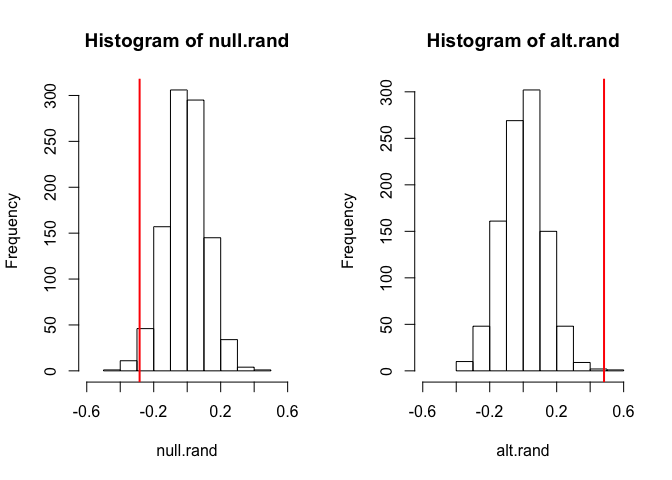
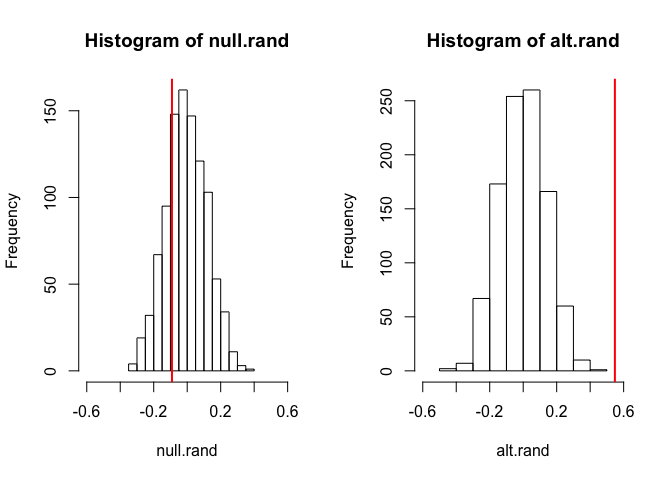
get rid of ~

diff --git a/hypothesis_testing.md b/hypothesis_testing.md
@@ -229,20 +229,20 @@ SIGN.test(x, md = 2) # it use median (md) instead of mean (mu).
     ##  One-sample Sign-Test
     ## 
     ## data:  x
-    ## s = 49, p-value = 0.9204
+    ## s = 53, p-value = 0.6173
     ## alternative hypothesis: true median is not equal to 2
     ## 95 percent confidence interval:
-    ##  1.826532 2.254292
+    ##  1.807113 2.259526
     ## sample estimates:
     ## median of x 
-    ##    1.954697 
+    ##    2.081437 
     ## 
     ## Achieved and Interpolated Confidence Intervals: 
     ## 
     ##                   Conf.Level L.E.pt U.E.pt
-    ## Lower Achieved CI     0.9431 1.8305 2.2503
-    ## Interpolated CI       0.9500 1.8265 2.2543
-    ## Upper Achieved CI     0.9648 1.8181 2.2628
+    ## Lower Achieved CI     0.9431 1.8093 2.2454
+    ## Interpolated CI       0.9500 1.8071 2.2595
+    ## Upper Achieved CI     0.9648 1.8024 2.2900
 
 What about using one-sample t-test on this?
 
@@ -254,13 +254,13 @@ t.test(x,mu=2)
     ##  One Sample t-test
     ## 
     ## data:  x
-    ## t = 0.43267, df = 99, p-value = 0.6662
+    ## t = 1.0453, df = 99, p-value = 0.2984
     ## alternative hypothesis: true mean is not equal to 2
     ## 95 percent confidence interval:
-    ##  1.876915 2.191733
+    ##  1.904462 2.308246
     ## sample estimates:
     ## mean of x 
-    ##  2.034324
+    ##  2.106354
 
 #### Wilconxon Signed-Rank Test
 
@@ -274,7 +274,7 @@ wilcox.test(x, mu = 2) #it use mean (mu) instead of median (md)
     ##  Wilcoxon signed rank test with continuity correction
     ## 
     ## data:  x
-    ## V = 2710, p-value = 0.5258
+    ## V = 2796, p-value = 0.3523
     ## alternative hypothesis: true location is not equal to 2
 
 Now, you try with paired data. First, generate some random data from the normal distribution, calculate the difference and do the appropriate test.
@@ -289,13 +289,13 @@ t.test(dif,mu=0)
     ##  One Sample t-test
     ## 
     ## data:  dif
-    ## t = -3.2434, df = 99, p-value = 0.001611
+    ## t = -4.0036, df = 99, p-value = 0.0001207
     ## alternative hypothesis: true mean is not equal to 0
     ## 95 percent confidence interval:
-    ##  -0.7260159 -0.1748721
+    ##  -0.8838244 -0.2980645
     ## sample estimates:
-    ## mean of x 
-    ## -0.450444
+    ##  mean of x 
+    ## -0.5909445
 
 ``` r
 SIGN.test(dif,md=0)
@@ -305,20 +305,20 @@ SIGN.test(dif,md=0)
     ##  One-sample Sign-Test
     ## 
     ## data:  dif
-    ## s = 36, p-value = 0.006637
+    ## s = 38, p-value = 0.02098
     ## alternative hypothesis: true median is not equal to 0
     ## 95 percent confidence interval:
-    ##  -0.7963621 -0.1449141
+    ##  -1.0084734 -0.1347159
     ## sample estimates:
     ## median of x 
-    ##   -0.458496 
+    ##  -0.7669838 
     ## 
     ## Achieved and Interpolated Confidence Intervals: 
     ## 
     ##                   Conf.Level  L.E.pt  U.E.pt
-    ## Lower Achieved CI     0.9431 -0.7930 -0.1718
-    ## Interpolated CI       0.9500 -0.7964 -0.1449
-    ## Upper Achieved CI     0.9648 -0.8035 -0.0871
+    ## Lower Achieved CI     0.9431 -1.0015 -0.1394
+    ## Interpolated CI       0.9500 -1.0085 -0.1347
+    ## Upper Achieved CI     0.9648 -1.0234 -0.1246
 
 ``` r
 wilcox.test(dif,mu=0)
@@ -328,7 +328,7 @@ wilcox.test(dif,mu=0)
     ##  Wilcoxon signed rank test with continuity correction
     ## 
     ## data:  dif
-    ## V = 1612, p-value = 0.001704
+    ## V = 1440, p-value = 0.0001923
     ## alternative hypothesis: true location is not equal to 0
 
 **Wilcoxon signed-rank test is more powerful than the simply sign test.** Using the rank data in addition to the sign data gave us much better precision, since it has smaller p value.
@@ -346,7 +346,7 @@ wilcox.test(x,z)
     ##  Wilcoxon rank sum test with continuity correction
     ## 
     ## data:  x and z
-    ## W = 5454, p-value = 0.2678
+    ## W = 5567, p-value = 0.1663
     ## alternative hypothesis: true location shift is not equal to 0
 
 Now make random normal data set of 1000 elements with a mean of 2 and a random gamma data set whose shape parameter is 2 (will also have an expected value of 2). Make density plot of each, marking the means.
@@ -378,7 +378,7 @@ wilcox.test(normd$normd,gammad$gammad)
     ##  Wilcoxon rank sum test with continuity correction
     ## 
     ## data:  normd$normd and gammad$gammad
-    ## W = 535160, p-value = 0.006474
+    ## W = 544190, p-value = 0.0006217
     ## alternative hypothesis: true location shift is not equal to 0
 
 Next, do a WRST on the WW domain reported\_effect scores vs the Pab1 reported\_effect scores, and compare the results with t test.
@@ -437,7 +437,7 @@ kruskal.test(list(d1,d2,d3))
     ##  Kruskal-Wallis rank sum test
     ## 
     ## data:  list(d1, d2, d3)
-    ## Kruskal-Wallis chi-squared = 1.9165, df = 2, p-value = 0.3836
+    ## Kruskal-Wallis chi-squared = 2.0815, df = 2, p-value = 0.3532
 
 OK, now double the shape parameter for d3 and test again
 
@@ -450,7 +450,7 @@ kruskal.test(list(d1,d2,d3))
     ##  Kruskal-Wallis rank sum test
     ## 
     ## data:  list(d1, d2, d3)
-    ## Kruskal-Wallis chi-squared = 78.929, df = 2, p-value < 2.2e-16
+    ## Kruskal-Wallis chi-squared = 96.901, df = 2, p-value < 2.2e-16
 
 Use **pairwise.wilcox.test()** to see which of our three data sets is different from the others (note the automatic correction for multiple hypothesis testing). It requires some formatting work.
 
@@ -466,8 +466,8 @@ pairwise.wilcox.test(combined.vector,grouping.vector, paired = TRUE)
     ## data:  combined.vector and grouping.vector 
     ## 
     ##    d1      d2     
-    ## d2 0.9     -      
-    ## d3 2.2e-10 1.5e-10
+    ## d2 0.18    -      
+    ## d3 3.7e-13 3.4e-15
     ## 
     ## P value adjustment method: holm
 
@@ -519,7 +519,7 @@ alt.y = rnorm(300, mean=carrier/2)
 ## Note that rnorm() will take a vector of means - the random value returned for the ith element will be drawn from a normal distribution with the ith mean.  Here, the first 100 values will be drawn from a normal with a mean of zero whereas the next 200 will be drawn from a normal with a mean of 0.5, note carrier/2.
 ```
 
-Just for the sake of comparison, deploy the appropriate parametric test for the difference in means. You can use the "~" operator. y~x is interpreted as "y is modeled as a function of x"
+Just for the sake of comparison, deploy the appropriate parametric test for the difference in means.
 
 ``` r
 t.test(null.y~carrier, var.equal=TRUE)
@@ -529,13 +529,13 @@ t.test(null.y~carrier, var.equal=TRUE)
     ##  Two Sample t-test
     ## 
     ## data:  null.y by carrier
-    ## t = 2.3528, df = 298, p-value = 0.01928
+    ## t = 0.78312, df = 298, p-value = 0.4342
     ## alternative hypothesis: true difference in means is not equal to 0
     ## 95 percent confidence interval:
-    ##  0.04649735 0.52203548
+    ##  -0.1375898  0.3194718
     ## sample estimates:
     ## mean in group 0 mean in group 1 
-    ##      0.26225897     -0.02200744
+    ##      0.10551389      0.01457289
 
 ``` r
 t.test(alt.y~carrier, var.equal=TRUE)
@@ -545,13 +545,13 @@ t.test(alt.y~carrier, var.equal=TRUE)
     ##  Two Sample t-test
     ## 
     ## data:  alt.y by carrier
-    ## t = -3.7291, df = 298, p-value = 0.00023
+    ## t = -4.1452, df = 298, p-value = 4.431e-05
     ## alternative hypothesis: true difference in means is not equal to 0
     ## 95 percent confidence interval:
-    ##  -0.7377143 -0.2280508
+    ##  -0.8077091 -0.2876679
     ## sample estimates:
     ## mean in group 0 mean in group 1 
-    ##      0.07955588      0.56243842
+    ##       0.0315445       0.5792330
 
 Now, define test statistics for randomization tests for the null and alternate distributions
 
@@ -588,14 +588,14 @@ abline(v=alt.diff, lwd=2, col="red")
 mean(abs(null.rand) > abs(null.diff))
 ```
 
-    ## [1] 0.021
+    ## [1] 0.466
 
 ``` r
 #take absolute values, since you can do .rand-.diff, or .diff-.rand. 
 mean(abs(alt.rand) > abs(alt.diff))
 ```
 
-    ## [1] 0.001
+    ## [1] 0
 
 Results of t-tests and randomization tests are very comparable, which is expected. Since the data is sampled from a normal distribution with equal variance and the sample size is very big. Both assumptions of t.test are met. Rampling is nearly as powerful as parametric tests.
 
@@ -619,13 +619,13 @@ variance = sumsqr* (1/(length(sp.means)-1))
 variance
 ```
 
-    ## [1] 0.003804643
+    ## [1] 0.004120182
 
 ``` r
 var(sp.means)
 ```
 
-    ## [1] 0.003804643
+    ## [1] 0.004120182
 
 Now, calculate 95% CIs for the sample mean using this value and make a histogram showing where they fall. And compare this to the percentile method for 95% CIs we learned during lecture (97.5% and 2.5%).
 
@@ -667,13 +667,13 @@ variance = sumsqr* (1/(length(sp.means.skewed)-1))
 variance
 ```
 
-    ## [1] 2.9738
+    ## [1] 9.314156
 
 ``` r
 var(sp.means.skewed)
 ```
 
-    ## [1] 2.9738
+    ## [1] 9.314156
 
 Now, calculate 95% CIs for the sample mean using this value and make a histogram showing where they fall. And then compare this to the percentile method for 95% CIs we learned during lecture.
 
